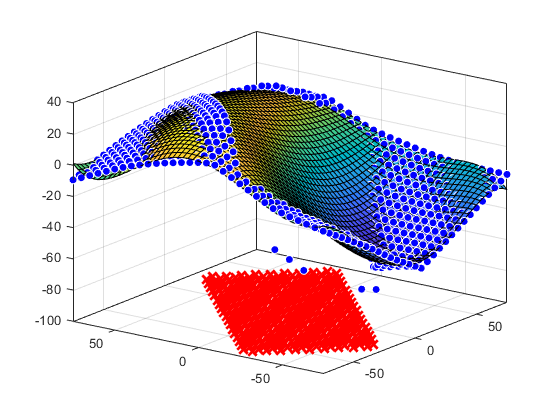
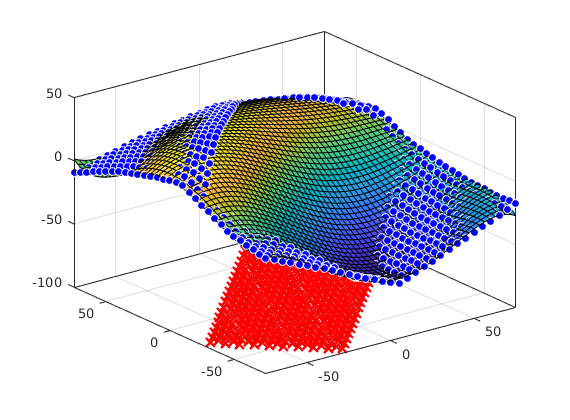
added plotting stuff

diff --git a/RFT3DwithDEM.m b/RFT3DwithDEM.m
@@ -43,7 +43,7 @@ plotVelocity = 0;
 plotGeometry = 0;
 
 % 1 for run all data 
-runData_toggle = 1;
+runData_toggle = 0;
 
 %% SET parameters
 % SET slip angle
@@ -200,13 +200,13 @@ depth = -radius + sinkage;
 
 
 % old method
-[idx, depthList] = run_extractHmap(pointList, slipAngle * 180 / pi, abs(sinkage / 1000));
+% [idx, depthList] = run_extractHmap(pointList, slipAngle * 180 / pi, abs(sinkage / 1000));
 
 % new fit method
 % [idx, depthList] = run_extractHmapFit(pointList, slipAngle * 180 / pi, abs(sinkage / 1000));
-% [idx, depthList] = run_extractHmapFitSmooth(pointList, slipAngle * 180 / pi, abs(sinkage / 1000));
-% idx = pointList(3,:) < depth;
-% depthList = abs(depth - pointList(3,idx));
+[idx, depthList] = run_extractHmapFitSmooth(pointList, slipAngle * 180 / pi, abs(sinkage / 1000));
+idx = pointList(3,:) < depth;
+depthList = abs(depth - pointList(3,idx));
 forcePoints = pointList(:, idx);
 numofForce = size(forcePoints, 2);
 

diff --git a/fit_extactHmap.m b/fit_extactHmap.m
@@ -84,7 +84,7 @@ Yqr = reshape(rotXY(:,2), size(Ytrimed,1), []);
 
 
 idxWheelX = Xqr(:, :) <=  wheelWidth / 2 + 2 & Xqr(:, :) >= - wheelWidth/ 2 - 2;
-idxWheelY = Yqr(:, :) <= wheelDiameter/ 2  + 2& Yqr(:, :) >= - wheelDiameter/ 2 -2;
+idxWheelY = Yqr(:, :) <= wheelDiameter/ 2  + 7& Yqr(:, :) >= - wheelDiameter/ 2 -7;
 
 idx = idxWheelX & idxWheelY;
 SandHmapnew = SandHmapOriginal;

diff --git a/run_extractHmapFitSmooth.m b/run_extractHmapFitSmooth.m
@@ -19,7 +19,7 @@ gridsize = 1/n;
 
 
 % 1 for plot all values
-plotToggle = 0;
+plotToggle = 1;
 
 tic
 [sandHmap, wheelPos] = extractHmap((90 - slipAngle), wheelDiameter, wheelWidth, depth, n);
